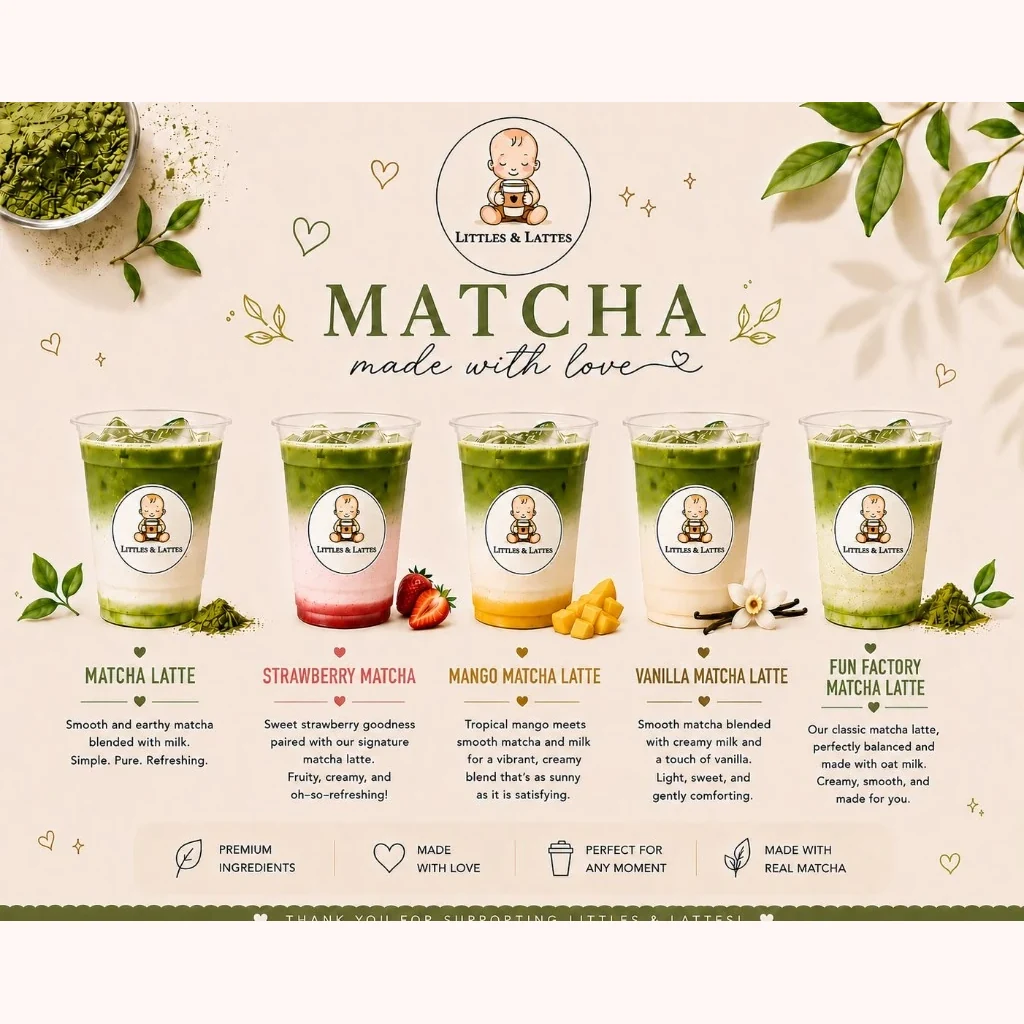
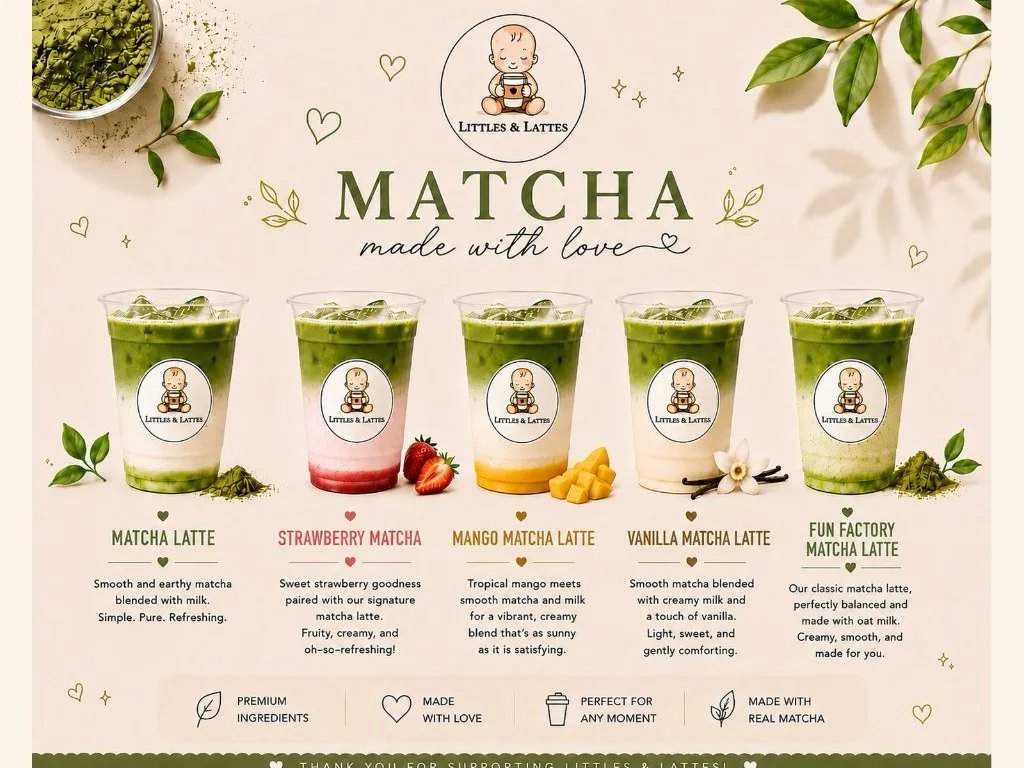
Swap in Bob's new Littles & Lattés menu boards (same 1024x768 size) and sync café menu data with the full board.

diff --git a/src/lib/site.ts b/src/lib/site.ts
@@ -644,7 +644,7 @@ export const cafeMenu = {
       name: "Chai Latte",
       description: "Warm spices and black tea blended with milk for the perfect cozy sip.",
       image: "/cafe/chai-latte.webp",
-      hotPrice: 5.5,
+      hotPrice: 5,
       coldPrice: 6,
     },
     {
@@ -666,7 +666,7 @@ export const cafeMenu = {
     {
       name: "Strawberry Matcha Latte",
       description:
-        "Sweet strawberry goodness paired with our signature strawberry cold foam matcha latte. Fruity, creamy, and oh-so-refreshing!",
+        "Sweet strawberry goodness paired with our signature matcha latte. Fruity, creamy, and oh-so-refreshing!",
       image: "/cafe/strawberry-matcha.webp",
       coldPrice: 6.5,
     },
@@ -708,22 +708,35 @@ export const cafeMenu = {
     { name: "Black Tea", price: 3 },
     { name: "Earl Grey", price: 3 },
     { name: "Peppermint Tea", price: 3 },
+    { name: "Chamomile", price: 3 },
+    { name: "London Fog", price: 4.5 },
   ],
-  hotChocolate: [{ name: "Hot Chocolate", price: 4 }],
+  hotChocolate: [
+    { name: "Hot Chocolate", price: 4 },
+    { name: "White Hot Chocolate", price: 4.5 },
+  ],
   addOns: [
     {
       name: "Syrups",
-      description: "Vanilla, Caramel, Strawberry",
+      description: "Vanilla, Caramel, Strawberry, Hazelnut, Brown Sugar, Maple, Mocha, White Chocolate",
       price: 0.5,
     },
     {
       name: "Cold Foam",
-      description: "Vanilla, Caramel, Strawberry, Chocolate",
+      description: "Vanilla, Caramel, Strawberry, Chocolate, Brown Sugar, Matcha, Salted Caramel",
       price: 1,
     },
     {
       name: "Oat Milk",
       price: 0.5,
+    },
+    {
+      name: "Whipped Cream",
+      price: 0.5,
+    },
+    {
+      name: "Extra Shot",
+      price: 1,
     },
   ],
   menuBoards: [
@@ -731,19 +744,19 @@ export const cafeMenu = {
       src: "/cafe/full-menu.webp",
       alt: "Littles & Lattés full café menu with pricing",
       width: 1024,
-      height: 1024,
+      height: 768,
     },
     {
       src: "/cafe/specialty-lattes-menu.webp",
       alt: "Littles & Lattés specialty iced lattes menu",
       width: 1024,
-      height: 1024,
+      height: 768,
     },
     {
       src: "/cafe/matcha-menu.webp",
       alt: "Littles & Lattés matcha drinks menu",
       width: 1024,
-      height: 1024,
+      height: 768,
     },
   ],
 } as const;

diff --git a/src/components/CafeMenuBoards.tsx b/src/components/CafeMenuBoards.tsx
@@ -42,7 +42,7 @@ export function CafeMenuBoards({ boards }: { boards: readonly MenuBoard[] }) {
             className="card group cursor-zoom-in p-2 text-left transition hover:ring-2 hover:ring-sky/50"
             aria-label={`View full size: ${image.alt}`}
           >
-            <div className="aspect-square rounded-[12px] bg-peach/10 p-3">
+            <div className="aspect-[4/3] rounded-[12px] bg-peach/10 p-3">
               <Image
                 src={image.src}
                 alt={image.alt}
